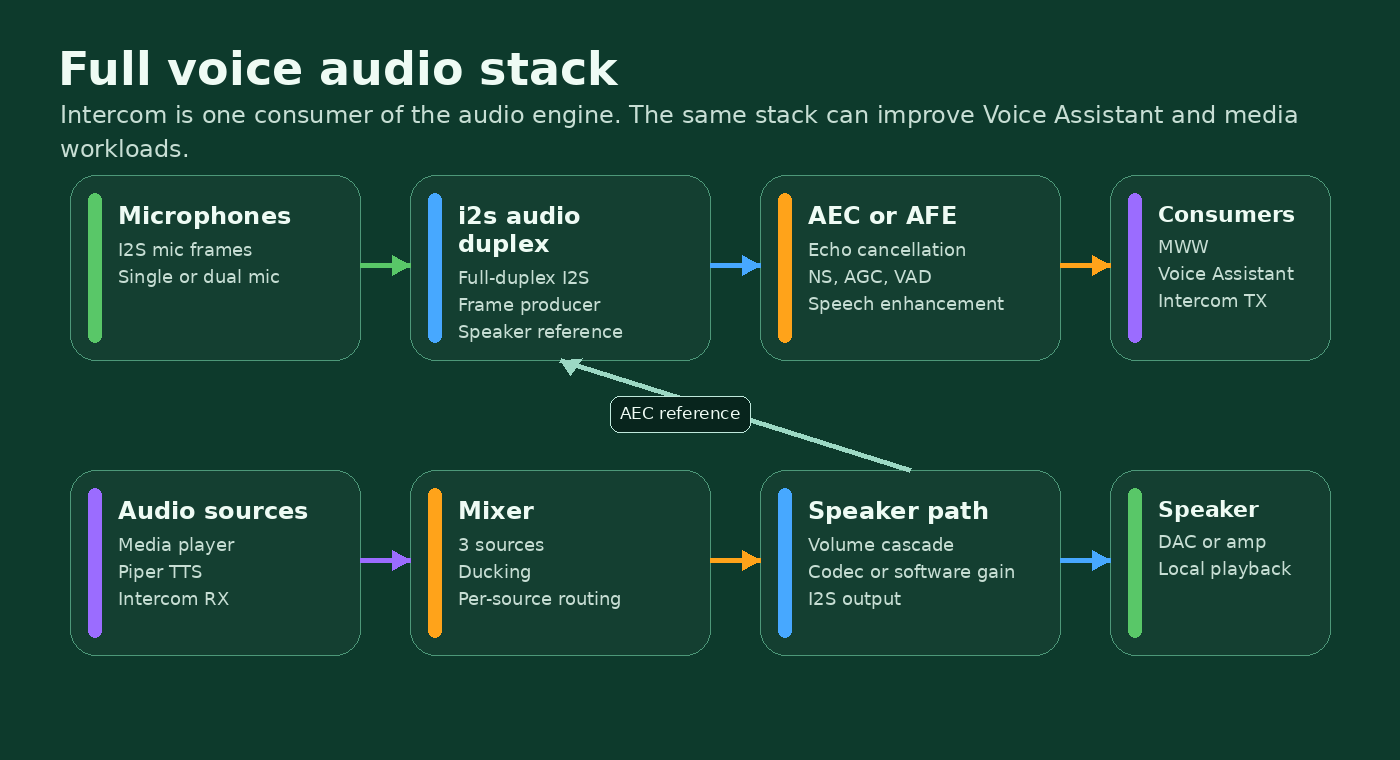
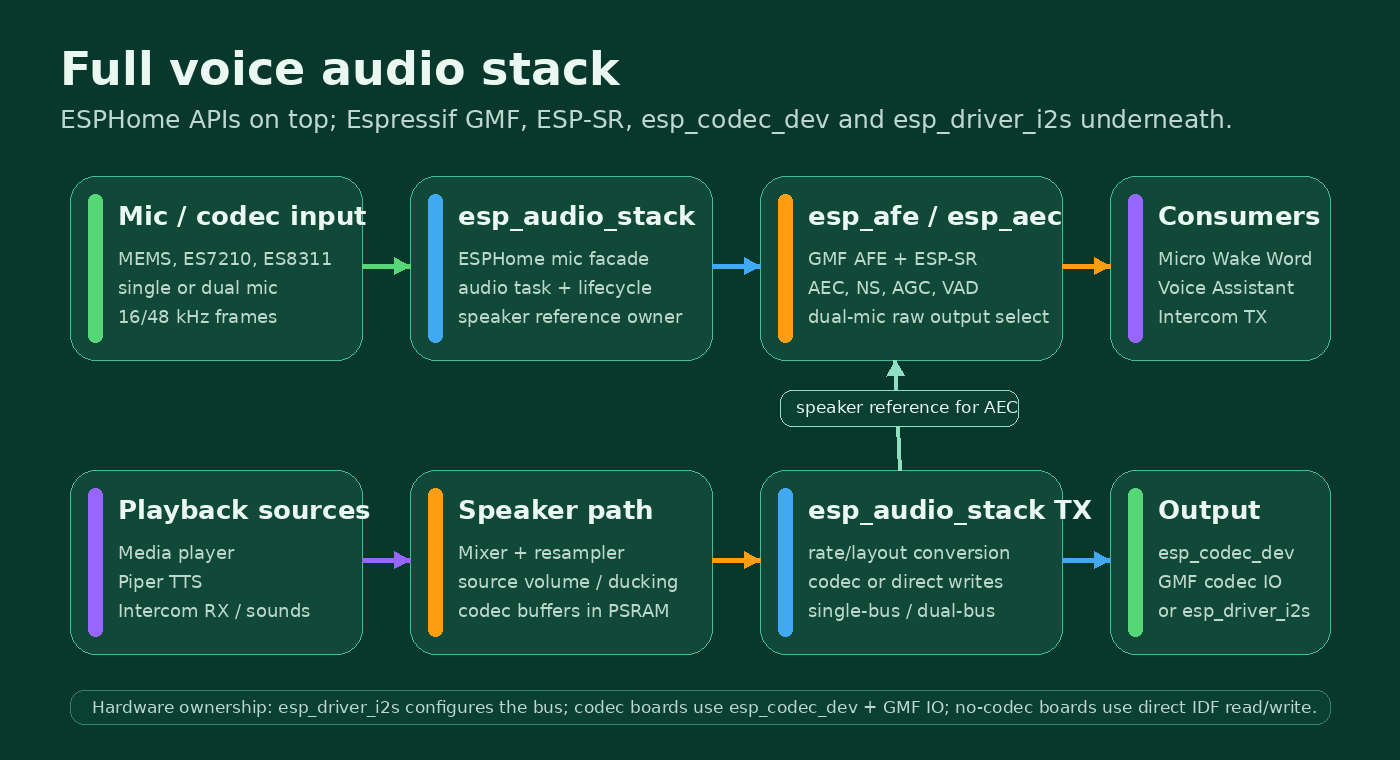
Update audio stack documentation image

diff --git a/docs/MEDIA_SHOT_LIST.md b/docs/MEDIA_SHOT_LIST.md
@@ -60,7 +60,7 @@ replace individual photos or GIFs if the UI changes before release.
 | `docs/images/pbx-lite-topology.png` | Diagram | Simple mental model | Created: ESP extensions, HA peer, browser card, direct and bridged calls |
 | `docs/images/phonebook-endpoint.png` | Diagram | Endpoint-first phonebook | Created: `Name|protocol|ip|ports`, HA row, subscribers |
 | `docs/images/tcp-udp-choice.png` | Diagram | Transport guidance | Created: TCP for routed/filtered networks, UDP for simple LAN latency |
-| `docs/images/audio-stack.png` | Diagram | Audio components | Created: `intercom_api`, optional `esp_audio_stack`, `esp_aec`, `esp_afe`, media player |
+| `docs/images/audio-stack.png` | Diagram | Audio components | Created: `esp_audio_stack`, ESPHome consumers, `esp_afe` / `esp_aec`, codec/no-codec output paths |
 
 ## Capture order for live demo
 